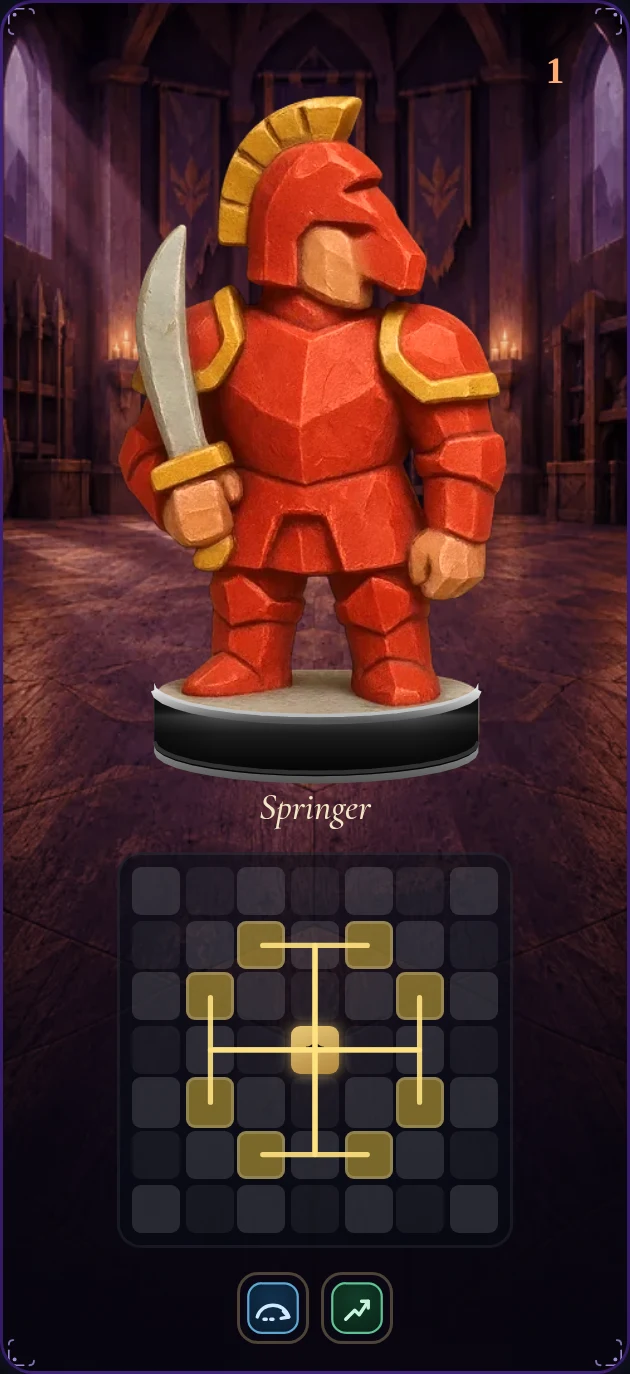
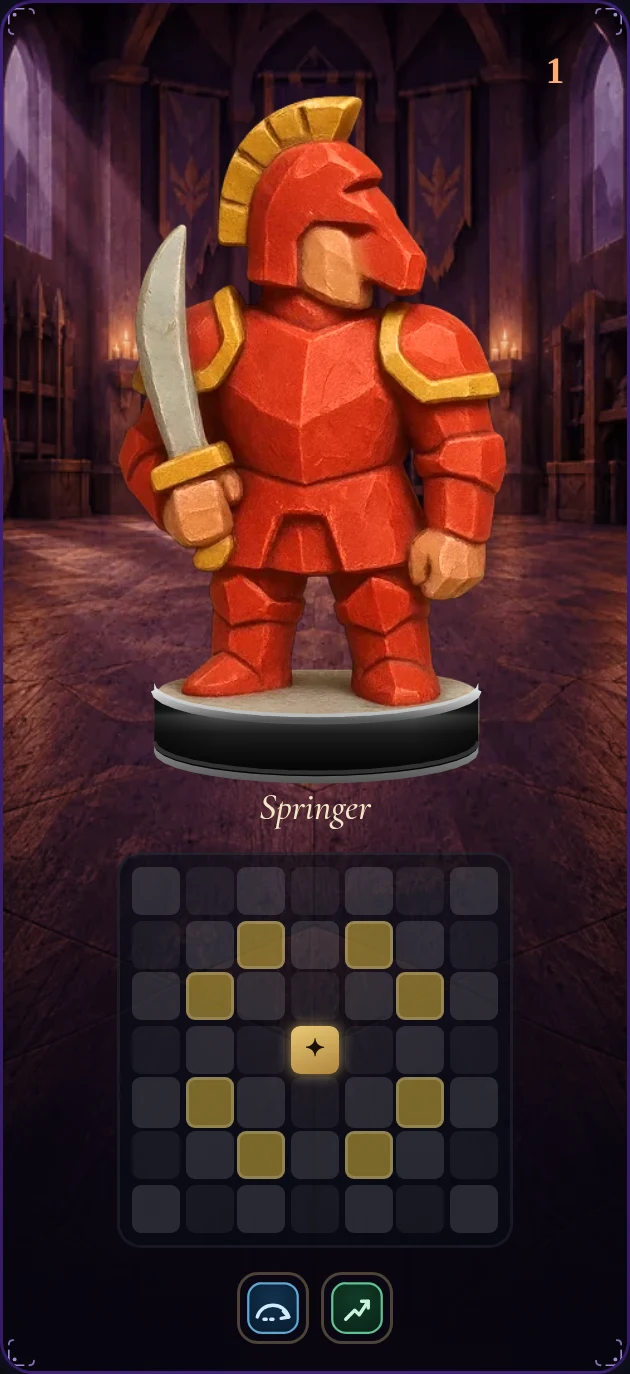
v1.91.2: das Springerbild ohne Linien, jeder Zug steht als Satz am Bild
Besitzer 6.10., zum vierten Mal, mit Foto der Sammlung: 'Wieso kriegst du
dieses bloede Pferd nicht richtig dargestellt ... was sollen diese Linien?
Mach doch einfach, wie ein Pferd ziehen kann.'

URSACHE: v1.90.35 zeichnete den Weg als L-Linien ins Raster. Je zwei Spruenge
teilten sich den geraden Arm; der Querbalken lief ueber das Feld zwischen zwei
Zielfeldern und verband sie optisch zu einer Hantel - vier Hanteln an einem
Kreuz statt acht Feldern. Die acht Felder selbst stimmten (test_ui zaehlt sie
gegen den Kern), aber das Bild sagte etwas anderes.

- MoveDiagram: die Linien sind fort, der Springer zeigt acht gelbe Felder wie
  jede andere Figur.
- describeMoves steht jetzt am Bild (Blatt, Chronik, Uebersicht) und ist fuer
  alle 50 Figuren und 42 Bosse richtig: seitliches Gleiten, 'beliebig weit'
  statt 'bis zu 99 Felder', jede Sprungform beim Namen ('drei gerade und eins
  zur Seite') statt 'auf n feste Zielfelder'.
- Startseite: Springerkarte und Zugbilder neu fotografiert (sie trugen die
  Linien).

Claude-Session: https://claude.ai/code/session_018Tfvp769kvKv88eRG4ctPp

Changed region(s): [[0.4222, 0.6725, 0.573, 0.8559], [0.6333, 0.7336, 0.6937, 0.7948], [0.3317, 0.7336, 0.3619, 0.7948]]

diff --git a/src/app/ui/screens/ArmyScreen.jsx b/src/app/ui/screens/ArmyScreen.jsx
@@ -300,6 +300,10 @@ function BlattBuehne({ kennung, name, haus, satz, portraet, pid, ton, kul, form,
             <div style={{ width: 154, maxWidth: 154, overflow: "hidden" }}>
               <MoveDiagram kind={zugKind} moveSpec={moveSpec} talente={talente} breite={154} />
             </div>
+            {/* v1.91.2: der Zug in WORTEN unter dem Bild - "zwei Felder gerade, dann eins zur Seite".
+                Die langen Saetze (Gambit, Drache) stehen weiter unten im Blatt und bleiben hier weg. */}
+            {(() => { const satz = describeMoves({ id: kennung, kind: zugKind, moveSpec }, en); return satz && satz.length <= 120
+              ? <div data-zugsatz style={{ fontSize: 10.5, lineHeight: 1.35, color: "#ddd6bd", textShadow: "0 1px 4px rgba(0,0,0,.9)" }}>{satz}</div> : null; })()}
             {/* v1.25.4 (Besitzer): "wenn mehrere Faehigkeiten wie hier
                 zweiteilig, mehr Abstand nach unten lassen - das wirkt zu
                 gedrungen." Die zweite Reihe stiess bisher direkt an die
@@ -625,13 +629,13 @@ function AbilityAccordion({ ab, tg, price, cost, owned, reach, can, kind, en, op
 // base moves are INBORN and never change; abilities are LEARNED by level.
 const DIRS_ORTHO = JSON.stringify([[1,0],[-1,0],[0,1],[0,-1]].sort());
 const DIRS_DIAG = JSON.stringify([[1,1],[1,-1],[-1,1],[-1,-1]].sort());
-function describeMoves(ch, en) {
+export function describeMoves(ch, en) {
   const FIX = {
     pawn: ["Zieht ein Feld voran (zwei aus der Grundreihe), schlägt schräg nach vorn.",
            "Moves one square forward (two from home), captures diagonally forward."],
     gambit: ["Zieht wie ein Bauer — doch er ist der Feldherr: Fällt er, ist die Schlacht verloren. Seine sechs Siegel-Stufen schärfen Fähigkeiten und Rüstzeug, nie die Schrittart.",
              "Moves like a pawn — but he is the commander: lose him and the battle is lost. His six seal tiers sharpen abilities and gear, never the stride."],
-    knight: ["Springt im L (zwei vor, eins zur Seite) — über alles hinweg.", "Leaps in an L (two then one) — over everything."],
+    knight: ["Springt im L: zwei Felder gerade, dann eins zur Seite — über alles hinweg.", "Leaps in an L: two squares straight, then one sideways — over everything."],
     bishop: ["Gleitet diagonal, beliebig weit.", "Slides diagonally, any distance."],
     rook: ["Gleitet gerade — waagerecht und senkrecht, beliebig weit.", "Slides straight — files and ranks, any distance."],
     queen: ["Gleitet in alle acht Richtungen, beliebig weit.", "Slides in all eight directions, any distance."],
@@ -646,42 +650,58 @@ function describeMoves(ch, en) {
   if (FIX[ch.id]) return FIX[ch.id][en ? 1 : 0];
   const ms = ch.moveSpec || {};
   const parts = [];
+  /* v1.91.2: DER SATZ SAGT, WAS DER KERN TUT. Bis hierher kannte er drei
+     Richtungen (gerade, diagonal, "alle acht") - der Steuereintreiber, der nur
+     SEITLICH gleitet, hiess "in alle acht Richtungen"; eine Gangart ohne
+     Reichweite hiess "bis zu 99 Felder"; und jeder Sprung, der in kein Muster
+     passte, hiess "auf n feste Zielfelder". Jetzt wird jede Sprungform beim
+     Namen genannt, mit denselben Worten, die der Besitzer benutzt: gerade,
+     schraeg, zur Seite. */
   if (ms.slides?.length) {
     const key = JSON.stringify([...ms.slides].sort());
-    const dir = key === DIRS_ORTHO ? (en ? "straight" : "gerade")
-      : key === DIRS_DIAG ? (en ? "diagonally" : "diagonal")
+    const nurSeite = ms.slides.every(([a, b]) => a && !b), nurVor = ms.slides.every(([a, b]) => !a && b);
+    const dir = nurSeite ? (en ? "sideways" : "zur Seite") : nurVor ? (en ? "forward and back" : "vor und zurück")
+      : key === DIRS_ORTHO ? (en ? "straight" : "gerade")
+      : key === DIRS_DIAG ? (en ? "diagonally" : "schräg")
       : (en ? "in all eight directions" : "in alle acht Richtungen");
     const r = ms.range || 99;
-    parts.push(en ? `Slides ${dir}, up to ${r} square${r > 1 ? "s" : ""}` : `Gleitet ${dir}, bis zu ${r} ${r > 1 ? "Felder" : "Feld"}`);
+    const weit = r >= 8 ? (en ? "any distance" : "beliebig weit") : r === 1 ? (en ? "one square" : "ein Feld") : (en ? `up to ${r} squares` : `bis zu ${r} Felder`);
+    parts.push(r === 1 ? (en ? `steps one square ${dir}` : `zieht ein Feld ${dir}`) : (en ? `slides ${dir}, ${weit}` : `gleitet ${dir}, ${weit}`));
   }
   /* v1.62.0 (Besitzer: "ein Feld schraeg springen macht keinen Sinn - beim
      Springen muss man immer mindestens zwei Felder, sonst ist es keiner"):
-     RICHTIG. Ein Einfeld-"Sprung" hat kein Feld dazwischen, ueber das man
-     springen koennte - er ist ein SCHRITT. Die Regeln bleiben gleich; die
-     Beschreibung trennt jetzt Schritte von echten Spruengen. */
+     ein Einfeld-"Sprung" ist ein SCHRITT. */
   const schritte = (ms.leaps || []).filter(([a, b]) => Math.max(Math.abs(a), Math.abs(b)) === 1);
   if (schritte.length) {
     const schraeg = schritte.every(([a, b]) => a && b), gerade = schritte.every(([a, b]) => !a || !b);
-    parts.push(en ? `steps one square ${schraeg ? "diagonally" : gerade ? "straight" : "in any direction"}`
-      : `zieht ein Feld ${schraeg ? "schräg" : gerade ? "gerade" : "in jede Richtung"}`);
+    const nurSeite = schritte.every(([a, b]) => a && !b), nurVor = schritte.every(([a, b]) => !a && b);
+    const wie = nurSeite ? (en ? "sideways" : "zur Seite") : nurVor ? (en ? "forward or back" : "vor oder zurück")
+      : schraeg ? (en ? "diagonally" : "schräg") : gerade ? (en ? "straight" : "gerade") : (en ? "in any direction" : "in jede Richtung");
+    parts.push(en ? `steps one square ${wie}` : `zieht ein Feld ${wie}`);
   }
   const echteSpruenge = (ms.leaps || []).filter(([a, b]) => Math.max(Math.abs(a), Math.abs(b)) >= 2);
   if (echteSpruenge.length) {
-    const L = echteSpruenge, n = L.length;
-    const allDiag1 = false;
-    const diag2 = n === 4 && L.every(([a, b]) => Math.abs(a) === 2 && Math.abs(b) === 2);
-    const diag12 = n === 8 && L.every(([a, b]) => Math.abs(a) === Math.abs(b) && Math.abs(a) <= 2);
-    const ring2 = n === 16 && L.every(([a, b]) => Math.max(Math.abs(a), Math.abs(b)) === 2);
-    const ortho2 = n === 4 && L.every(([a, b]) => (a === 0) !== (b === 0) && Math.max(Math.abs(a), Math.abs(b)) === 2);
-    const knightL = n === 8 && L.every(([a, b]) => Math.abs(a) + Math.abs(b) === 3 && a && b);
-    const what = allDiag1 ? (en ? "one square diagonally (leaping)" : "ein Feld diagonal (springend)")
-      : diag2 ? (en ? "two squares diagonally, over pieces" : "zwei Felder schräg, über Figuren hinweg")
-      : diag12 ? (en ? "one or two squares diagonally, over pieces" : "ein bis zwei Felder diagonal, über Figuren hinweg")
-      : ring2 ? (en ? "anywhere on the 2-ring around it, over pieces" : "auf den gesamten 2er-Ring, über Figuren hinweg")
-      : ortho2 ? (en ? "two squares straight, over pieces" : "zwei Felder gerade, über Figuren hinweg")
-      : knightL ? (en ? "the knight's L" : "im Springer-L")
-      : (en ? `to ${n} fixed squares, over pieces` : `auf ${n} feste Zielfelder, über Figuren hinweg`);
-    parts.push((en ? "leaps " : "springt ") + what);
+    const L = echteSpruenge;
+    const ring2 = L.length === 16 && L.every(([a, b]) => Math.max(Math.abs(a), Math.abs(b)) === 2);
+    const FORM = {
+      "0,2": ["zwei Felder gerade", "two squares straight", 4], "2,2": ["zwei Felder schräg", "two squares diagonally", 4],
+      "1,2": ["im Springer-L (zwei gerade, eins zur Seite)", "the knight's L (two straight, one sideways)", 8],
+      "0,3": ["drei Felder gerade", "three squares straight", 4], "1,3": ["drei gerade und eins zur Seite", "three straight and one sideways", 8],
+      "2,3": ["drei gerade und zwei zur Seite", "three straight and two sideways", 8], "3,3": ["drei Felder schräg", "three squares diagonally", 4],
+    };
+    const gruppen = new Map();
+    for (const [a, b] of L) { const k = [Math.abs(a), Math.abs(b)].sort((x, y) => x - y).join(","); if (!gruppen.has(k)) gruppen.set(k, []); gruppen.get(k).push([a, b]); }
+    const teile = ring2 ? [en ? "to any square two away" : "auf jedes Feld im Abstand zwei"] : [...gruppen.entries()].map(([k, felder]) => {
+      const f = FORM[k]; if (!f) return en ? `to ${felder.length} fixed squares` : `auf ${felder.length} feste Felder`;
+      let zusatz = "";
+      if (felder.length < f[2]) {
+        /* nur ein Teil der Form: laenger nach vorn/hinten oder laenger zur Seite? */
+        const hoch = felder.every(([a, b]) => Math.abs(b) > Math.abs(a)), quer = felder.every(([a, b]) => Math.abs(a) > Math.abs(b));
+        zusatz = hoch ? (en ? ", only forward and back" : ", nur nach vorn und hinten") : quer ? (en ? ", only to the sides" : ", nur zur Seite") : "";
+      }
+      return (en ? f[1] : f[0]) + zusatz;
+    });
+    parts.push((en ? "leaps " : "springt ") + teile.join(en ? " or " : " oder ") + (en ? ", over pieces" : ", über Figuren hinweg"));
   }
   if (!parts.length) return en ? "Moves as its kind." : "Zieht nach Art seiner Gattung.";
   const txt = parts.join(en ? "; " : "; ");
@@ -827,29 +847,19 @@ export function MoveDiagram({ kind, moveSpec, extra = null, breite = null, talen
     const light = (f + r + 100) % 2 === 0;
     cells.push({ f, r, here, mark, light });
   }
-  /* ── v1.90.35: DAS L DES SPRINGERS WIRD GEZEICHNET ────────────────────────
-     Besitzer 5.10., zum dritten Mal: "du hast immer noch nicht das Pferd von
-     den Zuegen richtig dargestellt". GEMESSEN stimmen die acht gelben Felder
-     (test_ui zaehlt sie gegen den Kern) - aber acht Punkte im Kreis sehen
-     nicht nach einem Springerzug aus; die Aufhellung des Rasters (v1.90.25)
-     hat das nicht geloest. Jetzt zeichnet das Bild den WEG: von der Figur zwei
-     Felder gerade, dann eines zur Seite. Je zwei Spruenge teilen sich den
-     geraden Teil, es entstehen vier Arme mit Querbalken. Nur fuer echte
-     Springerspruenge (1/2) der GRUNDGANGART; Talente bleiben Felder. */
-  const springerL = (sp?.leaps || []).filter(([df, dr]) => {
-    const a = Math.abs(df), b = Math.abs(dr); return (a === 1 && b === 2) || (a === 2 && b === 1); });
-  const mitte = (f, r) => `${f - lo + 0.5},${hi - r + 0.5}`;
+  /* ── v1.91.2: KEINE LINIEN MEHR IM SPRINGERBILD ───────────────────────────
+     Besitzer 6.10., zum VIERTEN Mal, diesmal mit Foto: "was sollen diese
+     Linien? ... mach doch einfach, wie ein Pferd ziehen kann." v1.90.35 hatte
+     den Weg als L-Linien eingezeichnet. Je zwei Spruenge teilten sich den
+     geraden Arm, der Querbalken lief UEBER das Feld zwischen zwei Zielfeldern -
+     aus acht Feldern wurden vier Hanteln an einem Kreuz. Das Bild war dadurch
+     schlechter lesbar als ohne. Jetzt wieder: acht Felder wie bei jeder
+     anderen Figur, und der SATZ steht daneben (describeMoves) - "zwei Felder
+     gerade, dann eins zur Seite". Die Felder selbst stimmten immer (test_ui
+     zaehlt sie gegen den Kern). */
   return <div data-zugbild={grossDrache ? "drache" : undefined} style={{ display: "grid", gridTemplateColumns: `repeat(${NN}, 1fr)`, gap: 1.5, width: breite || "min(150px, 52vw)",
     position: "relative",
     padding: 4, borderRadius: 8, background: "rgba(8,12,22,.55)", border: "1px solid #ffffff10" }}>
-    {springerL.length > 0 && <svg data-springer-l={springerL.length} viewBox={`0 0 ${NN} ${NN}`} aria-hidden
-      style={{ position: "absolute", inset: 4, width: "calc(100% - 8px)", height: "calc(100% - 8px)", pointerEvents: "none", zIndex: 1 }}>
-      {springerL.map(([df, dr], i) => {
-        const knick = Math.abs(df) === 2 ? [df, 0] : [0, dr];
-        return <polyline key={i} points={`${mitte(0, 0)} ${mitte(knick[0], knick[1])} ${mitte(df, dr)}`}
-          fill="none" stroke="rgba(255,226,130,.9)" strokeWidth={0.1} strokeLinecap="round" strokeLinejoin="round" />;
-      })}
-    </svg>}
     {cells.map((c, i) => <div key={i} style={{ aspectRatio: "1", borderRadius: 3, position: "relative",
       background: c.here ? "linear-gradient(160deg,#e7c877,#b1863c)"
         : c.mark === "slide" ? "rgba(74,163,232,.42)"
@@ -1383,6 +1393,7 @@ function CharCard({ char, profile, dispatch, t, en, onZoom, open = true, onToggl
     {open && unlocked && char.kind !== "P" && !bigArt && (
       <div style={{ marginTop: 12 }}>
         <div className="gg-serif" style={{ fontSize: 10, letterSpacing: ".12em", color: "#c9b26a", marginBottom: 5 }}>{(en ? "Base moves" : "Grundzüge").toUpperCase()}</div>
+        <div data-zugsatz style={{ fontSize: 12, lineHeight: 1.45, color: "#ddd6bd", marginBottom: 6 }}>{describeMoves(char, en)}</div>
         <MoveDiagram kind={char.kind} moveSpec={char.moveSpec} />
         <div style={{ fontSize: 9.5, color: "#8a856f", marginTop: 3, fontStyle: "italic" }}>{en ? MOVE_LEGEND.en : MOVE_LEGEND.de}</div>
       </div>

diff --git a/test_ui.jsx b/test_ui.jsx
@@ -2955,9 +2955,24 @@ print(json.dumps({"gezaehlt": gezaehlt, "schlecht": schlecht}))
   }
   ok(`Zugbilder: ${gezaehlt} Figuren - jedes Bild zeigt genau die Felder, die der Kern auf leerem Brett gibt (schief: ${schief.join(" || ") || "keine"})`, gezaehlt >= 20 && schief.length === 0);
   const spL = html(<MoveDiagram kind="N" />);
-  ok("v1.90.35: das Zugbild des Springers zeichnet den WEG - acht L-Linien (zwei gerade, eins zur Seite)",
-    spL.includes('data-springer-l="8"') && (spL.match(/<polyline/g) || []).length === 8 && spL.includes('points="3.5,3.5 3.5,1.5 4.5,1.5"'));
-  ok("v1.90.35: der Laeufer traegt keine L-Linien", !html(<MoveDiagram kind="B" />).includes("data-springer-l"));
+/* v1.91.2 (Besitzer 6.10., zum vierten Mal, mit Foto: "was sollen diese Linien ... mach doch
+     einfach, wie ein Pferd ziehen kann"): die L-Linien aus v1.90.35 sind fort - sie verbanden je
+     zwei Zielfelder zu einer Hantel. Acht Felder wie bei jeder Figur, der Weg steht als SATZ daneben. */
+  ok("v1.91.2: das Zugbild des Springers traegt keine Linien mehr - acht gelbe Felder, kein SVG",
+    !spL.includes("<polyline") && !spL.includes("data-springer-l") && !spL.includes("<svg") && (spL.match(/rgba\(233,197,63,\.5\)/g) || []).length === 8);
+  {
+    const { describeMoves: dm } = await import("./src/app/ui/screens/ArmyScreen.jsx");
+    const { CHARACTERS: CH92, BOSSES: B92 } = await import("./src/content/index.js");
+    ok("v1.91.2: der Satz zum Springer sagt den Weg in Worten - zwei gerade, eins zur Seite (de und en)",
+      dm(CH92.knight, false).includes("zwei Felder gerade, dann eins zur Seite") && dm(CH92.knight, true).includes("two squares straight, then one sideways"));
+    ok("v1.91.2: der Satz kennt seitliches Gleiten, 'beliebig weit' und nennt jede Sprungform",
+      dm(CH92.taxman, false) === "Gleitet zur Seite, beliebig weit; zieht ein Feld vor oder zurück."
+      && dm(CH92.pathfinder, false).includes("drei gerade und eins zur Seite") && dm(CH92.scholar, false).includes("nur nach vorn und hinten"));
+    const stumm = [...Object.values(CH92), ...B92.map((b) => ({ id: "x", nameDe: b.nameDe, moveSpec: b.moveSpec }))]
+      .filter((c) => /feste Felder|fixed squares|99|Gattung|its kind/.test(dm(c, false) + dm(c, true))).map((c) => c.nameDe);
+    ok(`v1.91.2: keine Figur und kein Boss bekommt einen Verlegenheitssatz (ohne: ${stumm.join(", ") || "keine"})`, stumm.length === 0);
+    ok("v1.91.2: das Blatt zeigt den Satz unter dem Zugbild", /data-zugsatz/.test(readFileSync("src/app/ui/screens/ArmyScreen.jsx", "utf8")));
+  }
 }
 
 /* ── v1.90.35: BESTECHEN IM BLATT, GROSSMEISTER ALS WORT, ZOOM, VERWANDLUNG ───── */

diff --git a/tools/uebersicht-pruefstand.jsx b/tools/uebersicht-pruefstand.jsx
@@ -17,7 +17,7 @@ import { createRoot } from "react-dom/client";
 import { GLOBAL_CSS, T } from "../src/app/ui/theme.js";
 import { setAnimAn } from "../src/app/ui/anim.js";
 import { paintedById, paintedForPiece } from "../src/app/ui/board/paintedArt.js";
-import { HofKachel, MoveDiagram, kachelWerteFuer } from "../src/app/ui/screens/ArmyScreen.jsx";
+import { HofKachel, MoveDiagram, kachelWerteFuer, describeMoves } from "../src/app/ui/screens/ArmyScreen.jsx";
 import { AbilityIcon } from "../src/app/ui/AbilityIcons.jsx";
 import { rohrAnteile } from "../src/app/ui/board/PieceGlyph.jsx";
 import { CHARACTERS, ABILITIES, BOSSES, CAMPAIGN, LEAGUE_BOSSES, KAPITEL_TROPHAEE, auraText, istBestechlich } from "../src/content/index.js";
@@ -86,6 +86,7 @@ function FigurKarte({ id }) {
         <MoveDiagram kind={c.kind} moveSpec={c.moveSpec} breite={"128px"} />
       </div>
     </div>
+    <div style={{ fontSize: 11.5, color: "#e4dcc6", marginTop: 7, lineHeight: 1.4 }}><b style={{ color: "#c9b26a" }}>Zug:</b> {describeMoves(c, false)}</div>
     <div style={{ fontSize: 11, fontStyle: "italic", color: "#a9a28a", marginTop: 7, lineHeight: 1.4 }}>{c.flavorDe}</div>
     <Faehigkeiten leiter={c.ladder || []} />
   </div>;
@@ -115,6 +116,7 @@ function BossKarte({ b }) {
         <MoveDiagram kind={null} moveSpec={b.moveSpec} breite={"128px"} />
       </div>
     </div>
+    <div style={{ fontSize: 11.5, color: "#e4dcc6", marginTop: 7, lineHeight: 1.4 }}><b style={{ color: "#c9b26a" }}>Zug:</b> {describeMoves({ id: "boss-" + b.id, moveSpec: b.moveSpec }, false)}</div>
     {b.flavorDe && <div style={{ fontSize: 11, fontStyle: "italic", color: "#a9a28a", marginTop: 7, lineHeight: 1.4 }}>{b.flavorDe}</div>}
     {auraText(b.aura, false) && <div style={{ marginTop: 7, padding: "6px 8px", borderRadius: 9, border: "1px solid rgba(167,139,250,.55)", background: "rgba(30,24,52,.7)", fontSize: 11.5, color: "#e4dcc6" }}>
       <b style={{ color: "#c3aaf5", letterSpacing: ".1em", fontSize: 10 }}>AURA</b> · {auraText(b.aura, false)}</div>}

diff --git a/CLAUDE.md b/CLAUDE.md
@@ -41,8 +41,8 @@ gambitrise.com zeigt darauf).
   pruefe-navigation, pruefe-textfluss, test_layout) lesen den Chromium-Pfad aus
   `PW_CHROMIUM`; ohne die Variable gilt der Pfad des Cloud-Containers. Lokal:
   `npx playwright install chromium` und `PW_CHROMIUM=<Pfad zur chrome-Datei>`.
-- `npm test` — volle Batterie. MUSS **31 Suiten / 2910 Prüfungen** melden
-  (Stand v1.91.1; der Runner stoppt nach der ersten roten Suite, also
+- `npm test` — volle Batterie. MUSS **31 Suiten / 2913 Prüfungen** melden
+  (Stand v1.91.2; der Runner stoppt nach der ersten roten Suite, also
   Suitenzahl prüfen, nicht nur Assertions! **Zählweise seit v1.90.18
   (Audit A74): JEDE Suite der Kette meldet eine RESULT-Zeile** — alle Zeilen
   `RESULT…: N passed` summieren; test_balance meldet zwei, darum stehen im
@@ -473,13 +473,18 @@ Quelltext lesen hat wiederholt getäuscht; gemessen wird am lebenden DOM
   — sonst steht die Figur wieder auf ihrem gemalten grauen Teller. Bewusst ohne
   Band: Gegnerbildnis über dem Brett (Sockel verdeckt), 22-px-Köpfe der
   Bundtafel, Händler und Schatzkammer (`hatBand`), die Gambit-Marke der Karte.
-- **Zugbild (MoveDiagram), v1.90.35:** der Springersprung wird als WEG
-  gezeichnet (L-Linien: zwei gerade, eins zur Seite) — der Besitzer hat die
-  acht richtigen Felder dreimal für falsch gehalten, weil acht Punkte im Kreis
-  nicht nach Springer aussehen. test_ui prüft JEDE Figur gegen den Kern (leeres
-  9×9-Brett); wer eine Gangart ändert, sieht dort sofort, ob Bild und Kern
-  auseinanderlaufen. Der Magier (zwei Felder schräg) hat in der Grundstellung
-  keinen Zug — das ist richtig, wird aber im Spiel nicht erklärt.
+- **Zugbild (MoveDiagram), v1.91.2: KEINE LINIEN, DER ZUG STEHT ALS SATZ
+  DANEBEN.** Der Besitzer hat das Springerbild viermal für falsch gehalten —
+  zuerst die acht Felder allein (v1.90.25), dann die L-Linien (v1.90.35: je
+  zwei Zielfelder verschmolzen über den Querbalken zu einer Hantel, „was sollen
+  diese Linien?“). Die Felder stimmten jedes Mal. Was ihm fehlte, war der Weg in
+  Worten — und er zählt ihn anders („eins schräg und zwei geradeaus“; das wären
+  drei Felder, der Sprung von Hetzer und Kundschafter). Darum steht jetzt
+  `describeMoves` am Bild: „Springt im L: zwei Felder gerade, dann eins zur
+  Seite.“ **Nie wieder Linien oder Pfeile ins Zugbild zeichnen.** test_ui prüft
+  JEDE Figur gegen den Kern (leeres 9×9-Brett) und dass kein Satz ein
+  Verlegenheitssatz ist. Der Magier (zwei Felder schräg) hat in der
+  Grundstellung keinen Zug — das ist richtig, wird aber im Spiel nicht erklärt.
 - **Zugbild (MoveDiagram):** die leeren Felder sind seit v1.90.25 sichtbar
   (13 % / 6 % Weiß) — vorher sah der Besitzer im Springer-L acht Punkte im
   Kreis und hielt es für falsch. Die Aufstellungskarte legt gelernte
@@ -548,7 +553,7 @@ Quelltext lesen hat wiederholt getäuscht; gemessen wird am lebenden DOM
   Auswahl-Lichtspektakel.
 - Alles Optionale abschaltbar (Klang, Online).
 
-## Offene Baustellen (Stand v1.91.1, 6.10.2026)
+## Offene Baustellen (Stand v1.91.2, 6.10.2026)
 
 **Einstieg für jede neue Sitzung: `design/CHAT-EINSTIEG-2026-09-27.md`** (zehn
 Minuten, mit dem Startsatz für den Chat), dann **`design/UEBERGABE-2026-09-27.md`** — Stand,

diff --git a/CHANGELOG.md b/CHANGELOG.md
@@ -1,5 +1,24 @@
 # Changelog - Gambit Rise
 
+## 1.91.2 - Das Springerbild ohne Linien, und jeder Zug steht als Satz daneben
+
+Besitzer 6.10., zum vierten Mal und mit Foto: "Wieso kriegst du dieses bloede
+Pferd nicht richtig dargestellt ... was sollen diese Linien? Mach doch einfach,
+wie ein Pferd ziehen kann."
+
+- **Ursache:** v1.90.35 zeichnete den Weg des Springers als L-Linien ins Bild.
+  Je zwei Spruenge teilten sich den geraden Arm, und der Querbalken lief ueber
+  das Feld ZWISCHEN zwei Zielfeldern - aus acht Feldern wurden vier Hanteln an
+  einem Kreuz. Die Felder stimmten (die Probe zaehlt sie gegen den Kern), das
+  Bild las sich trotzdem falsch. Die Linien sind fort: acht gelbe Felder wie bei
+  jeder anderen Figur.
+- **Der Zug steht jetzt in Worten am Bild** (Blatt, Chronik, Uebersicht):
+  "Springt im L: zwei Felder gerade, dann eins zur Seite." Fuer jede Figur und
+  jeden Boss - der Satz kannte bisher nur gerade, diagonal und "alle acht". Der
+  Steuereintreiber (gleitet nur seitlich) hiess "in alle acht Richtungen", eine
+  Gangart ohne Reichweite "bis zu 99 Felder", und unbekannte Spruenge "auf n
+  feste Zielfelder".
+
 ## 1.91.1 - Die Meister stehen in ihrer Landschaft; jeder Bund am echten Weg geprueft
 
 Besitzer 6.10. abends: "sind die Buende jetzt wirklich alle aktiv und
